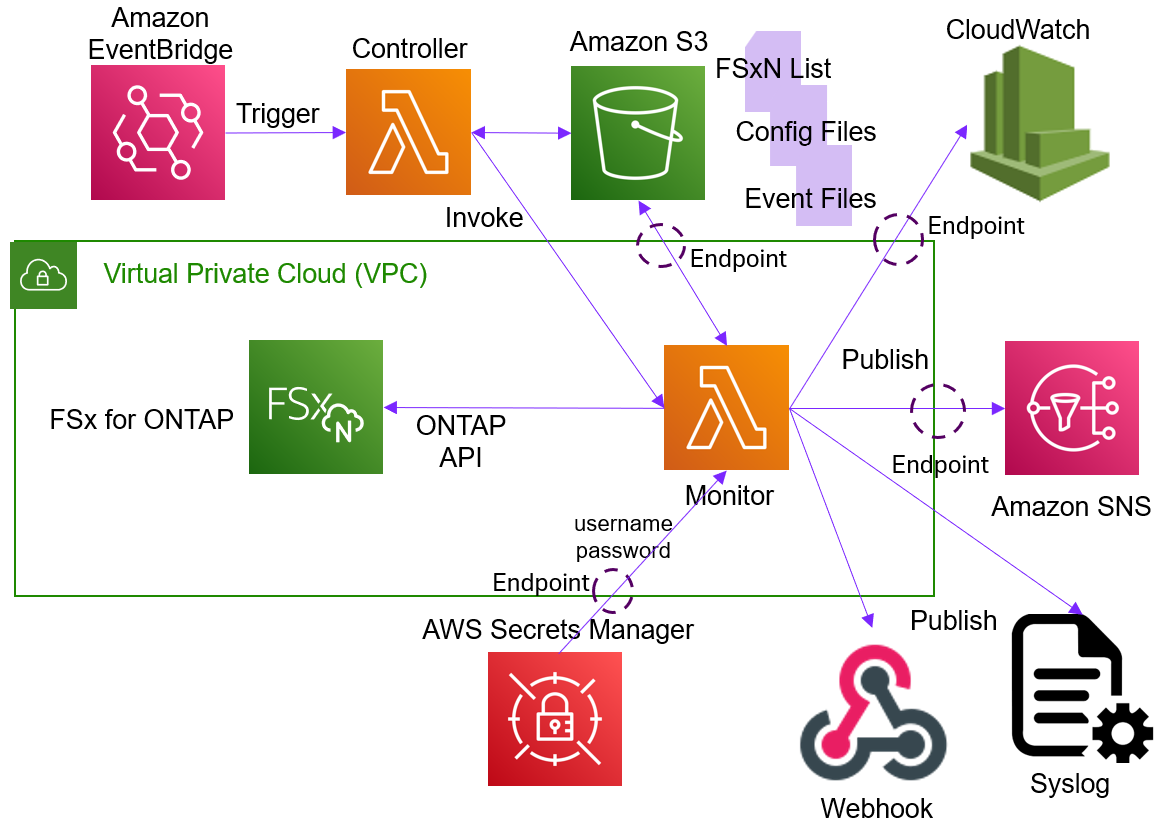
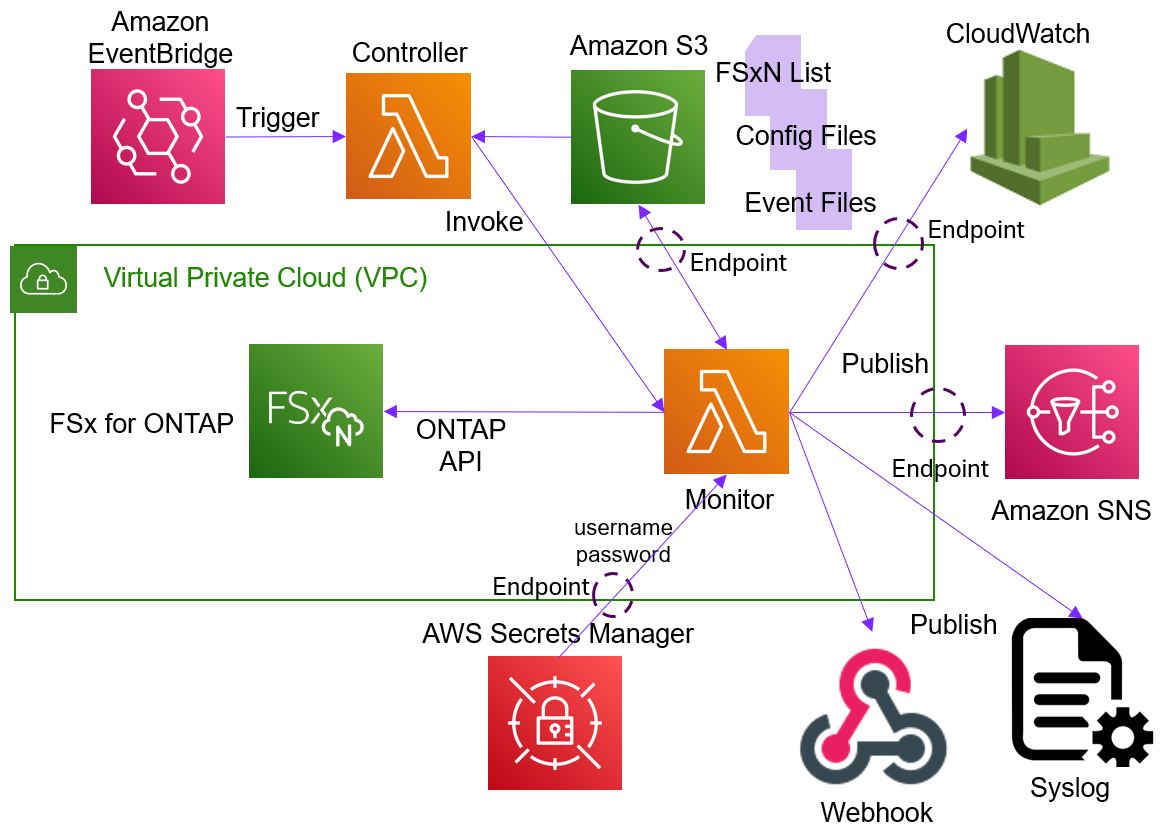
Removed synchronous Lambda invocation support.

diff --git a/FSx_Alerting/FSx_ONTAP_Alerting/README.md b/FSx_Alerting/FSx_ONTAP_Alerting/README.md
@@ -27,9 +27,9 @@ Here is this list of services that this program can monitor:
 - If any quotas values have been breached. You can be alerted on both soft and hard limits.
 
 ## Architecture
-This solution is made up of two main components, the monitoring program, and the controller. The monitoring
-program is used to get the status from the FSxN(s) and sends the alerts to the various destinations, and
-the controller is used to invoke the monitoring program on a regular basis. It is done this way,
+This solution is made up of two main components: the monitoring program and the controller. The monitoring
+program is used to get the information from the FSxN(s) and sends any alerts to the various destinations. The
+controller is used to invoke the monitoring program on a regular basis. It is done this way
 so you can monitor multiple FSxN file systems with just these two components.
 
 When the controller invokes the monitoring program it will send it the hostname (or IP address)
@@ -39,20 +39,21 @@ to use, the targets to send alerts to, etc.)
 
 Once the monitoring program has been invoked it will use the ONTAP APIs to obtain the required information 
 from the FSxN file system. It will compare this information against the conditions that have been
-specified in the conditions file (more information about it is below). If any conditions have been
-met it will send an alert to any of the specified target (SNS Topic, syslog server, webhook endpoint,
-CloudWatch Log Stream). The program stores all the conditions currently being met in an object in an
+specified in the conditions file (more information about the conditions file can be found int
+the [Matching Conditions File](#matching-conditions-file) below). If any conditions have been
+met it will send an alert to any of the specified targets (SNS Topic, syslog server, webhook endpoint,
+CloudWatch Log Stream). The program stores all the conditions that are currently being met in an object in an
 S3 bucket so it can ensure that it doesn't send duplicate messages for the same event.
 The conditions file is also kept in the S3 bucket for easy access.
-More information about the conditions file can be found in the [Matching Conditions File](#matching-conditions-file) section below.
 
 Since the monitoring program has to be able to communicate with
 the FSxN file system management endpoint it must run within a VPC that has
 connectivity to the FSxN file system. This requires special considerations for
 a Lambda function, both how it is deployed, and how it is able to access AWS services. You can read more about
-that in the [Endpoints for AWS Services](#endpoints-for-aws-services) section below.
+that in the [Create Any Needed AWS Service Endpoints](#create-any-needed-aws-service-endpoints) section below.
 
 Here is a graphical representation of the architecture:
+
 ![Architecture](images/Monitoring_ONTAP_Services_Architecture-2.png)
 
 Note that as part of this solution CloudWatch alarms will be created to monitor the
@@ -60,13 +61,13 @@ health of the Lambda functions and alert you if either of them fails. It is high
 that you don't disable them.
 
 ## Prerequisites
-- One or more FSx for NetApp ONTAP file system you want to monitor.
+- One, or more, FSx for NetApp ONTAP file system you want to monitor.
 - An S3 bucket to store the configuration and event status files, as well as the Lambda layer zip file.
     - **IMPORTANT** You must download the [Lambda layer zip file](https://raw.githubusercontent.com/NetApp/FSx-ONTAP-monitoring/main/FSx_Alerting/FSx_ONTAP_Alerting/lambda_layer.zip) from this repo and upload it to the S3 bucket. Be sure to preserve the name `lambda_layer.zip`. It contains some of the utilities that monitoring program depends on.
-- The security group associated with the FSx for ONTAP file system must allow inbound traffic from the Lambda function over TCP port 443. It can either allow port 443 for all the possible IP addresses associated with the subnet you plan to deploy it in. Or, after the solution has been deployed, you can get the security group that was assigned to the Monitoring program Lambda function and allow port 443 from that security group.
+- The security group associated with the FSx for ONTAP file system must allow inbound traffic from the monitoring Lambda function over TCP port 443. It can either allow port 443 for all the possible IP addresses associated with the subnet you plan to deploy it in. Or, after the solution has been deployed, you can get the security group that was assigned to the monitoring Lambda function and allow port 443 from that security group.
 - An SNS topic to send the alerts to.
-- An AWS Secrets Manager secret that holds the FSx for ONTAP file system credentials. There should be two keys in the secret, one for the username and one for the password.
-- Create an object (file) within the S3 bucket that contains the list of FSxNs you want to monitor. The format of the file is listed in the [FSxN List File](#fsxn-list-file) section below.
+- An AWS Secrets Manager secret(s) that holds the FSx for ONTAP file system credentials. There should be two keys in each secret, one for the username and one for the password.
+- Create an object (file) within the S3 bucket that contains the list of FSxNs you want to monitor. The format of the file is listed in the [FSxN List File](#create-fsxn-list-file) section below.
 - Optionally:
     - A CloudWatch Log Group to store events.
     - A syslog server to receive event messages.
@@ -92,7 +93,7 @@ The CloudFormation template will do the following:
 - Optionally create a VPC Endpoints for the SNS, Secrets Manager, CloudWatch and/or S3 AWS services.
 
 To install the program using the CloudFormation template, you will need to do the following:
-1. Download the CloudFormation template from this repository by clicking on [cloudforation.yaml](https://raw.githubusercontent.com/NetApp/FSx-ONTAP-monitoring/main/FSx_Alerting/FSx_ONTAP_Alerting/cloudformation.yaml). If that doesn't work, you click on
+1. Download the CloudFormation template from this repository by right-clicking on [cloudforation.yaml](https://raw.githubusercontent.com/NetApp/FSx-ONTAP-monitoring/main/FSx_Alerting/FSx_ONTAP_Alerting/cloudformation.yaml) and selecting "Save Link as." If that doesn't work, you click on
     the [cloudformation.yaml](./cloudformation.yaml) file in the repository, then click on
     the download icon next to the "Raw" button at the top right of the page. That should
     cause your browser to download the file to your local computer.
@@ -119,12 +120,12 @@ To install the program using the CloudFormation template, you will need to do th
 |ControllerRoleArn|The ARN of the role that the Lambda function will use. This role must have the permissions listed in the [Create an AWS Role](#create-an-aws-role) section below. If left blank a role will be created for you.|
 |MonitoringRoleArn|The ARN of the role that the Lambda function will use. This role must have the permissions listed in the [Create an AWS Role](#create-an-aws-role) section below. If left blank a role will be created for you.|
 |lambdaLayerArn|The ARN of the Lambda Layer to use for the Lambda function. This is only needed if you want to use an existing Lambda layer, typically from a previous installation of this program. If no ARN is provided, a Lambda Layer will be created for you from the lambda_layer.zip found in your S3 bucket.|
-|maxRunTime|The maximum amount of time, in seconds, that the monitoring Lambda function is allowed to run. The default is 60 seconds. You might have to increase this value if you have a lot of components in your FSxN file system. However, if you have to raise it to more than a couple minutes and the function still times out, then it could be an issue with the endpoint causing the calls to the AWS services to hang. See the [Endpoints for AWS Services](#endpoints-for-aws-services) section below for more information.|
+|maxRunTime|The maximum amount of time, in seconds, that the monitoring Lambda function is allowed to run. The default is 60 seconds. You might have to increase this value if you have a lot of components in your FSxN file system. However, if you have to raise it to more than a couple minutes and the function still times out, then it could be an issue with the endpoint causing the calls to the AWS services to hang. See the [Create Any Needed AWS Service Endoints](#create-any-needed-aws-service-endpoints) section below for more information.|
 |memorySize|The amount of memory, in MB, to assign to the Lambda function. The default is 128 MB. You might have to increase this value if you have a lot of components in your FSxN file system.|
-|CreateSecretsManagerEndpoint|Set to "true" if you want to create a Secrets Manager endpoint. **NOTE:** If a SecretsManager Endpoint already exist for the specified Subnet the endpoint creation will fail, causing the entire CloudFormation stack to fail. Please read the [Endpoints for AWS services](#endpoints-for-aws-services) for more information.|
-|CreateSNSEndpoint|Set to "true" if you want to create an SNS endpoint. **NOTE:** If a SNS Endpoint already exist for the specified Subnet the endpoint creation will fail, causing the entire CloudFormation stack to fail. Please read the [Endpoints for AWS services](#endpoints-for-aws-services) for more information.|
-|CreateCWEndpoint|Set to "true" if you want to create a CloudWatch endpoint. **NOTE:** If a CloudWatch Endpoint already exist for the specified Subnet the endpoint creation will fail, causing the entire CloudFormation stack to fail. Please read the [Endpoints for AWS services](#endpoints-for-aws-services) for more information.|
-|CreateS3Endpoint|Set to "true" if you want to create an S3 endpoint. **NOTE:** If a S3 Gateway Endpoint already exist for the specified VPC the endpoint creation will fail, causing the entire CloudFormation stack to fail. Note that this will be a "Gateway" type endpoint, since they are free to use. Please read the [Endpoints for AWS services](#endpoints-for-aws-services) for more information.|
+|CreateSecretsManagerEndpoint|Set to "true" if you want to create a Secrets Manager endpoint. **NOTE:** If a SecretsManager Endpoint already exist for the specified Subnet the endpoint creation will fail, causing the entire CloudFormation stack to fail. Please read the [Create Any Needed AWS Service Endoints](#create-any-needed-aws-service-endpoints) for more information.|
+|CreateSNSEndpoint|Set to "true" if you want to create an SNS endpoint. **NOTE:** If a SNS Endpoint already exist for the specified Subnet the endpoint creation will fail, causing the entire CloudFormation stack to fail. Please read the [Create Any Needed AWS Service Endoints](#create-any-needed-aws-service-endpoints) for more information.|
+|CreateCWEndpoint|Set to "true" if you want to create a CloudWatch endpoint. **NOTE:** If a CloudWatch Endpoint already exist for the specified Subnet the endpoint creation will fail, causing the entire CloudFormation stack to fail. Please read the [Create Any Needed AWS Service Endoints](#create-any-needed-aws-service-endpoints) for more information.|
+|CreateS3Endpoint|Set to "true" if you want to create an S3 endpoint. **NOTE:** If a S3 Gateway Endpoint already exist for the specified VPC the endpoint creation will fail, causing the entire CloudFormation stack to fail. Note that this will be a "Gateway" type endpoint, since they are free to use. Please read the [Create Any Needed AWS Service Endoints](#create-any-needed-aws-service-endpoints) for more information.|
 |RoutetableIds|The route table IDs to update to use the S3 endpoint. Since the S3 endpoint is of type `Gateway` route tables have to be updated to use it. This parameter is only needed if you are creating an S3 endpoint.|
 |VpcId|The ID of a VPC where the subnets provided above are located. Required if you are creating an endpoint, not needed otherwise.|
 |EndpointSecurityGroupIds|The security group IDs that the endpoint will be attached to. The security group must allow traffic over TCP port 443 from the Lambda function. This is required if you are creating an Lambda, CloudWatch or SecretsManager endpoint.|
@@ -148,7 +149,7 @@ set for the OntapAdminServer parameter in the FSxNList file.
 ### Post Installation Checks
 After the stack has been created, first check the status of the controller Lambda function to make sure it is
 not in an error state. To find the controller Lambda function go to the Resources tab of the CloudFormation
-stack and click on the "Physical ID" of the Lambda function. This should bring you to the Lambda service in the AWS
+stack and click on the "Physical ID" of the "ControllerLambdaFunction." This should bring you to the Lambda service in the AWS
 console. Once there, click on the "Monitor" tab to see if the function has been invoked. Note that it will take
 at least the configured iteration time before the function is invoked for the first time. Locate the
 "Error count and success rate(%)" chart, which is usually found at the top right corner of the "Monitor" dashboard.
@@ -220,7 +221,7 @@ longer than that, please configure the program to store them in a CloudWatch log
 
 This bucket is also used to store the Matching Condition file. You can read more about it in the [Matching Conditions File](#matching-conditions-file) below.
 
-#### FSxN List File
+#### Create FSxN List File
 The FSxN list file is used by the controller Lambda function to determine which FSxN file systems to monitor.
 The format of the file is as follows:
 ```
@@ -251,7 +252,7 @@ If you want the program to send its logs to CloudWatch, you will need to create 
 send its logs to. The program will create a new log stream within the log group for every day there is an event for a file system.
 This step is optional if you don't want to send the logs to CloudWatch.
 
-#### Endpoints for AWS Services
+#### Create any needed AWS Service Endpoints
 Since the monitoring Lambda function has to communicate with the FSxN withing your network, it will have to run within a VPC that has connectivity to the file
 systems that you want to monitor. The monitoring Lambda function will also need access to the AWS service endpoints for the AWS services
 that it uses (S3, SNS, CloudWatch, and SecretsManager). Access to these service endpoints is typically routed through the Internet,
@@ -286,7 +287,7 @@ If you do need to deploy AWS service endpoints, keep the following in mind:
 **NOTE:** One indication that the Lambda function doesn't have access to an AWS service endpoint is if the Lambda function
 times out, even after adjusting the timeout to more than several minutes.
 
-#### Lambda Functions
+#### Create Lambda Functions
 First create the monitoring Lambda function by going to the AWS Lambda service and creating a new function with:
 - Give it a name. It can be anything, but a recommended name would be "Monitor-ONTAP-Service-Monitor"
 - Set the runtime to be Python 3.11 or later.
@@ -311,14 +312,8 @@ Once you have created the function you will be able to:
 - Increase the total run time to at least 20 seconds. You might have to raise that if you have a lot
     of components in your FSxN file system. However, if you have to raise it to more than a couple minutes
     and the function still times out, then it could be an issue with the endpoint causing the calls to the
-    AWS services to hang. See the [Endpoints for AWS Services](#endpoints-for-aws-services) section above
+    AWS services to hang. See the [Create Any Needed AWS Service Endoints](#create-any-needed-aws-service-endpoints) section above
     for more information.
-- Provide for the base configuration via environment variables and/or a configuration file.
-    See the [Configuration Parameters](#configuration-parameters) section below for more information.
-- Create the "Matching Conditions" file, that specifies when the Lambda function should send alerts.
-    See the [Matching Conditions File](#matching-conditions-file) section below for more information.
-- Once you have tested the function to ensure it works, set up an EventBridge Schedule
-    rule to trigger the function on a regular basis.
 
 Secondly create the controller Lambda function by going to the AWS Lambda service and creating a new function with:
 - Give it a name. It can be anything, but a recommended name would be "Monitor ONTAP Service Controller"
@@ -347,16 +342,29 @@ matching conditions file for each FSxN file system or one common one for all, or
 You can do this by going to the `Test` tab of the controller Lambda function and Clicking on the `Test` button.
 You will see any error it has invoking the monitoring function on that page. Resolve any issues you find.
 
-Next go to the Monitoring Lambda function to ensure it ran properly. Click on the "Monitor" tab of the monitoring
+3. Test the Monitoring Lambda function to ensure it ran properly. Click on the "Monitor" tab of the monitoring
 Lambda function and check the "Error count and success rate(%)" chart to ensure it it has zero errors. If there are
 any errors, click on the "View CloudWatch Logs" link to see the error messages. If you can't figure out what is causing an error,
 create an issue on the [Issues](https://github.com/NetApp/FSx-ONTAP-monitoring/issues) section
 in this repository and someone will help you.
 
-3. If anything is working as expected, set up an EventBridge Schedule rule to trigger the controller Lambda function
+4. If anything is working as expected, set up an EventBridge Schedule rule to trigger the controller Lambda function
 on a regular basis. A recommended interval is every 15 minutes.
 
-##### Configuration Parameters
+5. It is recommended that you create a CloudWatch alarm to monitor both the controller and monitoring Lambda functions
+so you'll know that they are running properly. You do that by going to the CloudWatch service in the AWS console and
+clicking on the `Alarms` link in the left hand navigation pane. Then, clicking on the `Create alarm`
+button. From there, click on the `Select metric` button. This will bring you to a page
+where you can provide the Lambda function name created in the steps above. Once you
+provide the name and hit `Return` it should present two boxes: "Lambda > By Resources" and "Lambda > By Function Name".
+Click on the "Lambda > By Function Name" box. This will bring you to a page where you can select the metric you want to monitor.
+In this case, you want to monitor the "Errors" metric so click on the box in front of the line with "Errors" as the metric name.
+Click on the "Select metric" button. This will bring you to a page where you can set the conditions for the alarm.
+The `Threshold Type` should be set to `Static` and the `Whenever Errors is...` set be set to `Greater`. Under the `than..` label
+put `0.5` in the text box. This will set the alarm to trigger if there are any errors. Do this for both the controller and monitoring
+Lambda functions.
+
+### Configuration Parameters
 Below is a list of parameters that are used to configure the program. Some parameters are required to be set
 while others are optional. Some of the optional ones are still required to be set to something but
 will have a usable default value if the parameter is not explicitly set. For the parameters that aren't required to be
@@ -393,7 +401,7 @@ filename, then set the configFilename environment variable to the name of your c
 | awsAccountId | No | No | None | Set to the AWS account ID where the FSxN file system is located. This is purely for documentation purposes and serves no other purpose.|
 | webhookEndpoint | No | No | None | Set to the webhook endpoint URL you want the program to send alerts to. Note, you'll most likely need to update the `sendWebhook` function to format the message you want to send. If left blank messages will not be sent to a webhook. |
 
-##### Matching Conditions File
+### Matching Conditions File
 The Matching Conditions file allows you to specify which events you want to be alerted on. The format of the
 file is JSON. JSON is basically a series of "key" : "value" pairs. Where the value can be object that also has
 "key" : "value" pairs. For more information about the format of a JSON file, please refer to this [page](https://www.json.org/json-en.html).
@@ -403,7 +411,7 @@ is an object with at least two keys. The first key is “name" which specifies t
 matching conditions (rules) for. The second key is "rules" which is an array of objects that provide the specific
 matching condition. Note that each service's rules has its own unique schema. The following is the definition of each service's schema.
 
-###### Matching condition schema for System Health (systemHealth)
+#### Matching condition schema for System Health (systemHealth)
 Each rule should be an object with one, or more, of the following keys:
 
 |Key Name|Value Type|Notes|
@@ -412,7 +420,7 @@ Each rule should be an object with one, or more, of the following keys:
 |failover|Boolean|If 'true' the program will send an alert if the FSxN cluster is running on its standby node. If it is set to `false`, it will not report on failover status.|
 |networkInterfaces|Boolean|If 'true' the program will send an alert if any of the network interfaces are down.  If it is set to `false`, it will not report on any network interfaces that are down.|
 
-###### Matching condition schema for EMS Events (ems)
+#### Matching condition schema for EMS Events (ems)
 Each rule should be an object with three keys, with an optional 4th key:
 
 |Key Name|Value Type|Notes|
@@ -429,7 +437,7 @@ anchor it with a regular express that starts with `^` for the beginning of the s
 the string. For example, `^arw.volume.state$`.  For a complete explanation of the regular expression syntax and special
 characters, please refer to the [Python documentation](https://docs.python.org/3/library/re.html).
 
-###### Matching condition schema for SnapMirror relationships (snapmirror)
+#### Matching condition schema for SnapMirror relationships (snapmirror)
 Each rule should be an object with one, or more, of the following keys:
 
 |Key Name|Value Type|Notes|
@@ -439,7 +447,7 @@ Each rule should be an object with one, or more, of the following keys:
 |stalledTransferSeconds|Integer|Specifies the minimum number of seconds that have to transpire before a SnapMirror transfer will be considered stalled.|
 |healthy|Boolean|If `true` will alert with the relationship is healthy. If `false` will alert with the relationship is unhealthy.|
 
-###### Matching condition schema for Storage Utilization (storage)
+#### Matching condition schema for Storage Utilization (storage)
 Each rule should be an object with one, or more, of the following keys:
 |Key Name|Value Type|Notes|
 |---|---|---|
@@ -452,7 +460,7 @@ Each rule should be an object with one, or more, of the following keys:
 |offline|Boolean|If `true` will alert if the volume is offline.|
 |oldSnapshot|Integer|Specifies the maximum allowable age, in days, before an alert is sent for a snapshot.|
 
-###### Matching condition schema for Quota (quota)
+#### Matching condition schema for Quota (quota)
 Each rule should be an object with one, or more, of the following keys:
 
 |Key Name|Value Type|Notes|
@@ -462,7 +470,7 @@ Each rule should be an object with one, or more, of the following keys:
 |maxHardQuotaInodesPercentUsed|Integer|Specifies the maximum allowable inode utilization (between 0 and 100) against the hard quota limit before an alert is sent.|
 |maxSoftQuotaInodesPercentUsed|Integer|Specifies the maximum allowable inode utilization (between 0 and 100) against the soft quota limit before an alert is sent.|
 
-###### Matching condition schema for Vserver (vserver)
+#### Matching condition schema for Vserver (vserver)
 Each rule should be an object with one, or more, of the following keys:
 |Key Name|Value Type|Notes|
 |---|---|---|
@@ -470,7 +478,7 @@ Each rule should be an object with one, or more, of the following keys:
 |nfsProtocolState|Boolean|If `true` will alert if the NFS protocol is not enabled on a vserver.|
 |cifsProtocolState|Boolean|If `true` will alert if the CIFS protocol is enabled for a vserver but doesn't have an `online` status.|
 
-###### Example Matching conditions file:
+#### Example Matching conditions file:
 ```json
 {
   "services": [
@@ -579,19 +587,6 @@ A matching conditions file must be created and stored in the S3 bucket with the 
 configuration variable. Feel free to use the example above as a starting point. Note that you should ensure it
 is in valid JSON format, otherwise the program will fail to load the file. There are various programs and
 websites that can validate a JSON file for you.
-
-##### CloudWatch Alarm to monitor the Lambda function
-It is recommended that you create a CloudWatch alarm to monitor the Lambda function so you'll know if it is
-running properly. You do that by going to the CloudWatch service in the AWS console and
-clicking on the `Alarms` link in the left hand navigation pane. Then, clicking on the `Create alarm`
-button. From there, click on the `Select metric` button. This will bring you to a page
-where you can provide the Lambda function name created in the steps above. Once you
-provide the name and hit `Return` it should present two boxes: "Lambda > By Resources" and "Lambda > By Function Name".
-Click on the "Lambda > By Function Name" box. This will bring you to a page where you can select the metric you want to monitor.
-In this case, you want to monitor the "Errors" metric so click on the box in front of the line with "Errors" as the metric name.
-Click on the "Select metric" button. This will bring you to a page where you can set the conditions for the alarm.
-The `Threshold Type` should be set to `Static` and the `Whenever Errors is...` set be set to `Greater`. Under the `than..` label
-put `0.5` in the text box. This will set the alarm to trigger if there are any errors.
 
 ## Author Information
 
